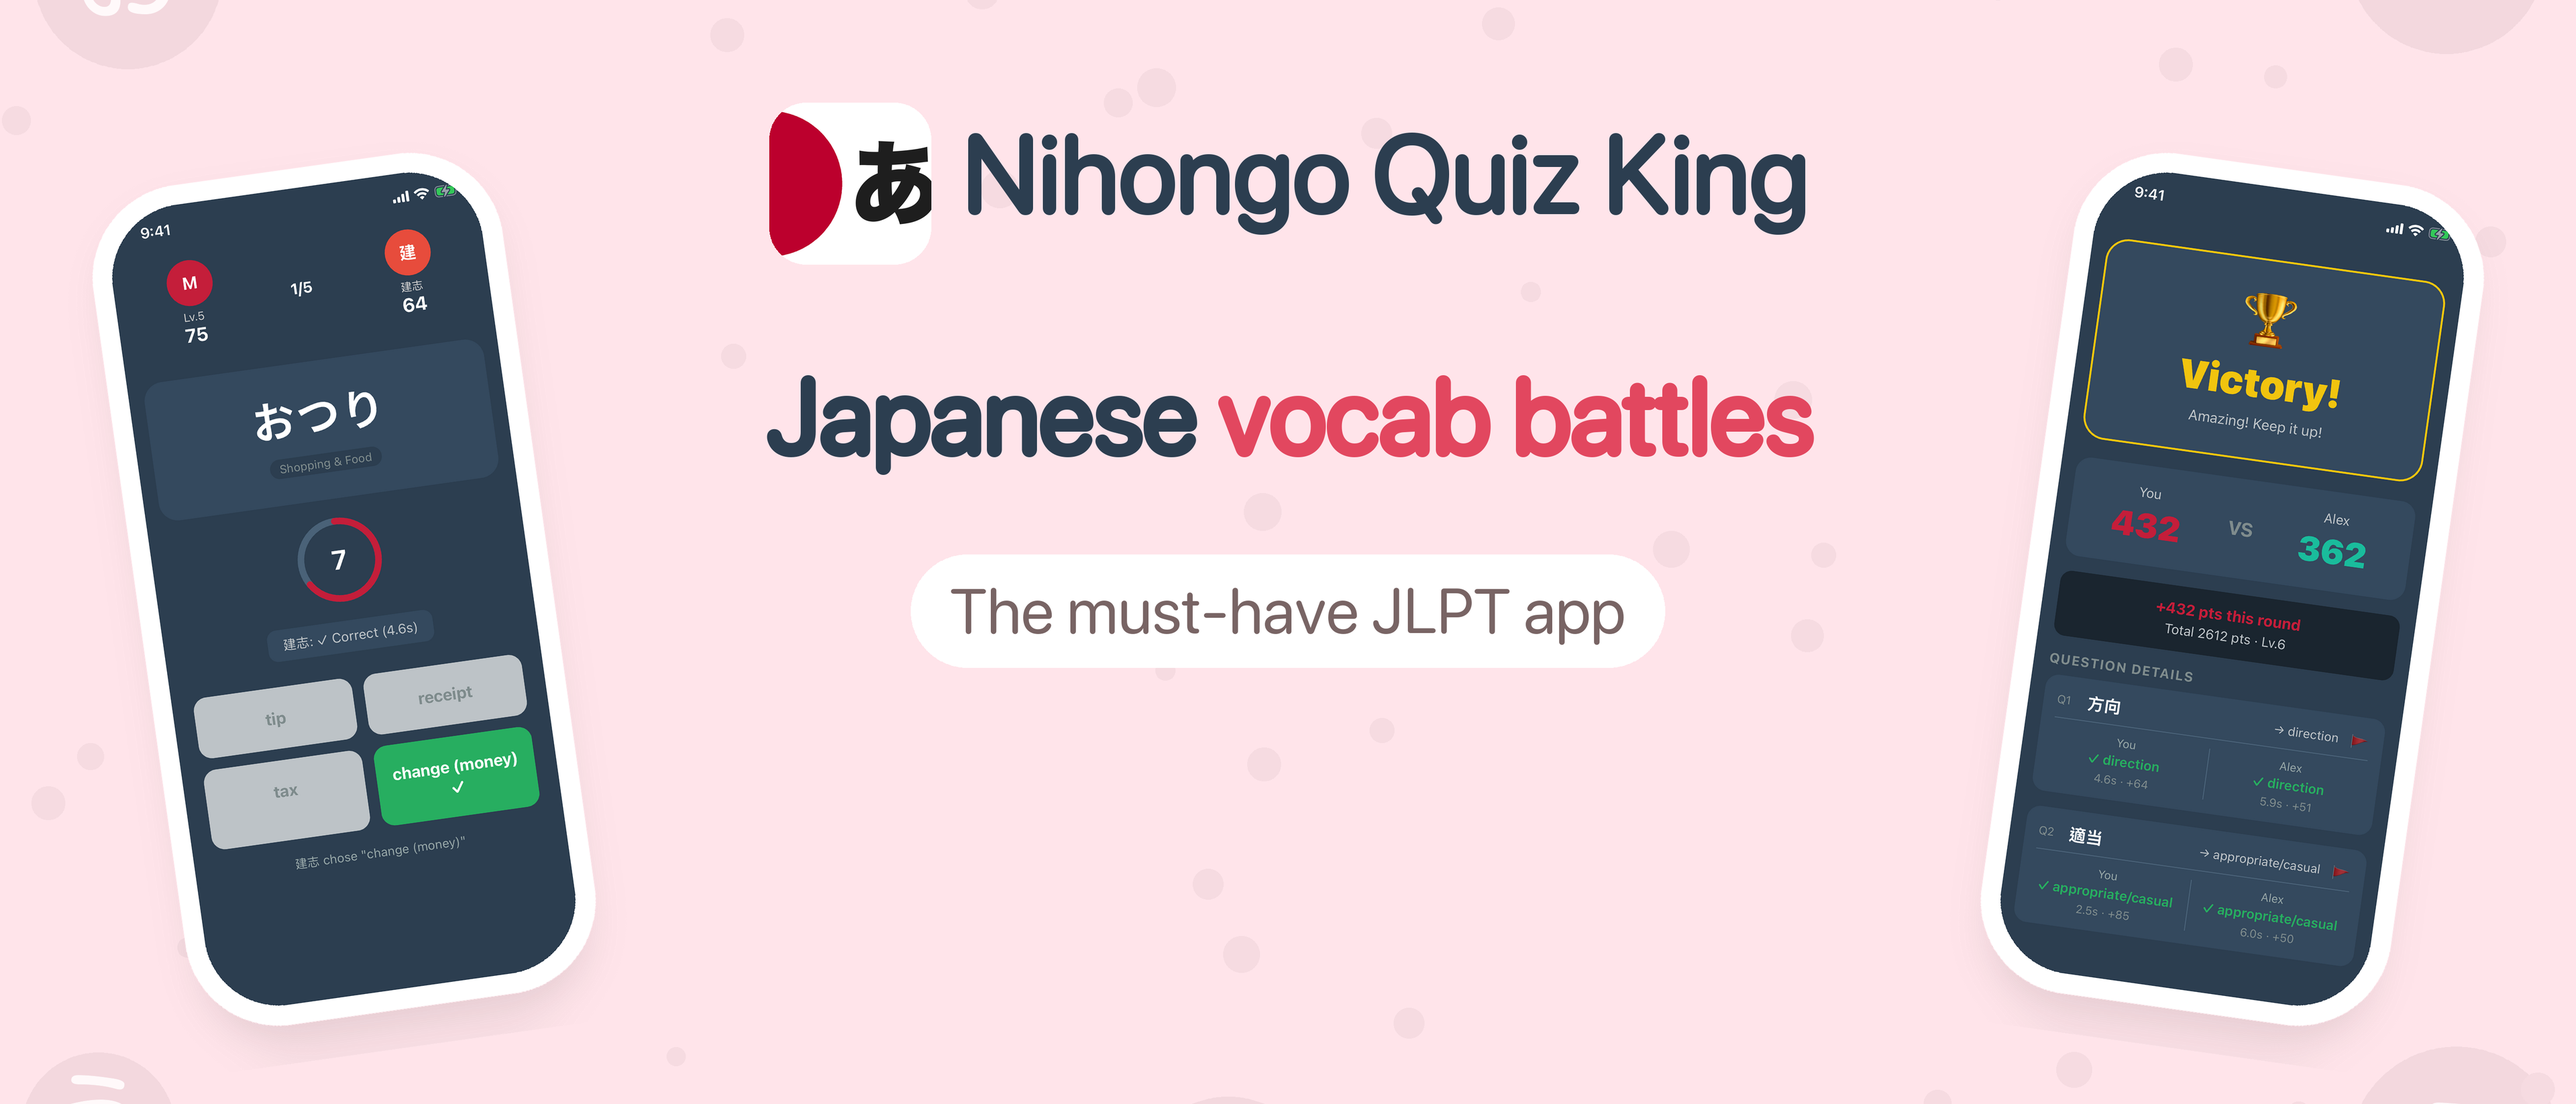
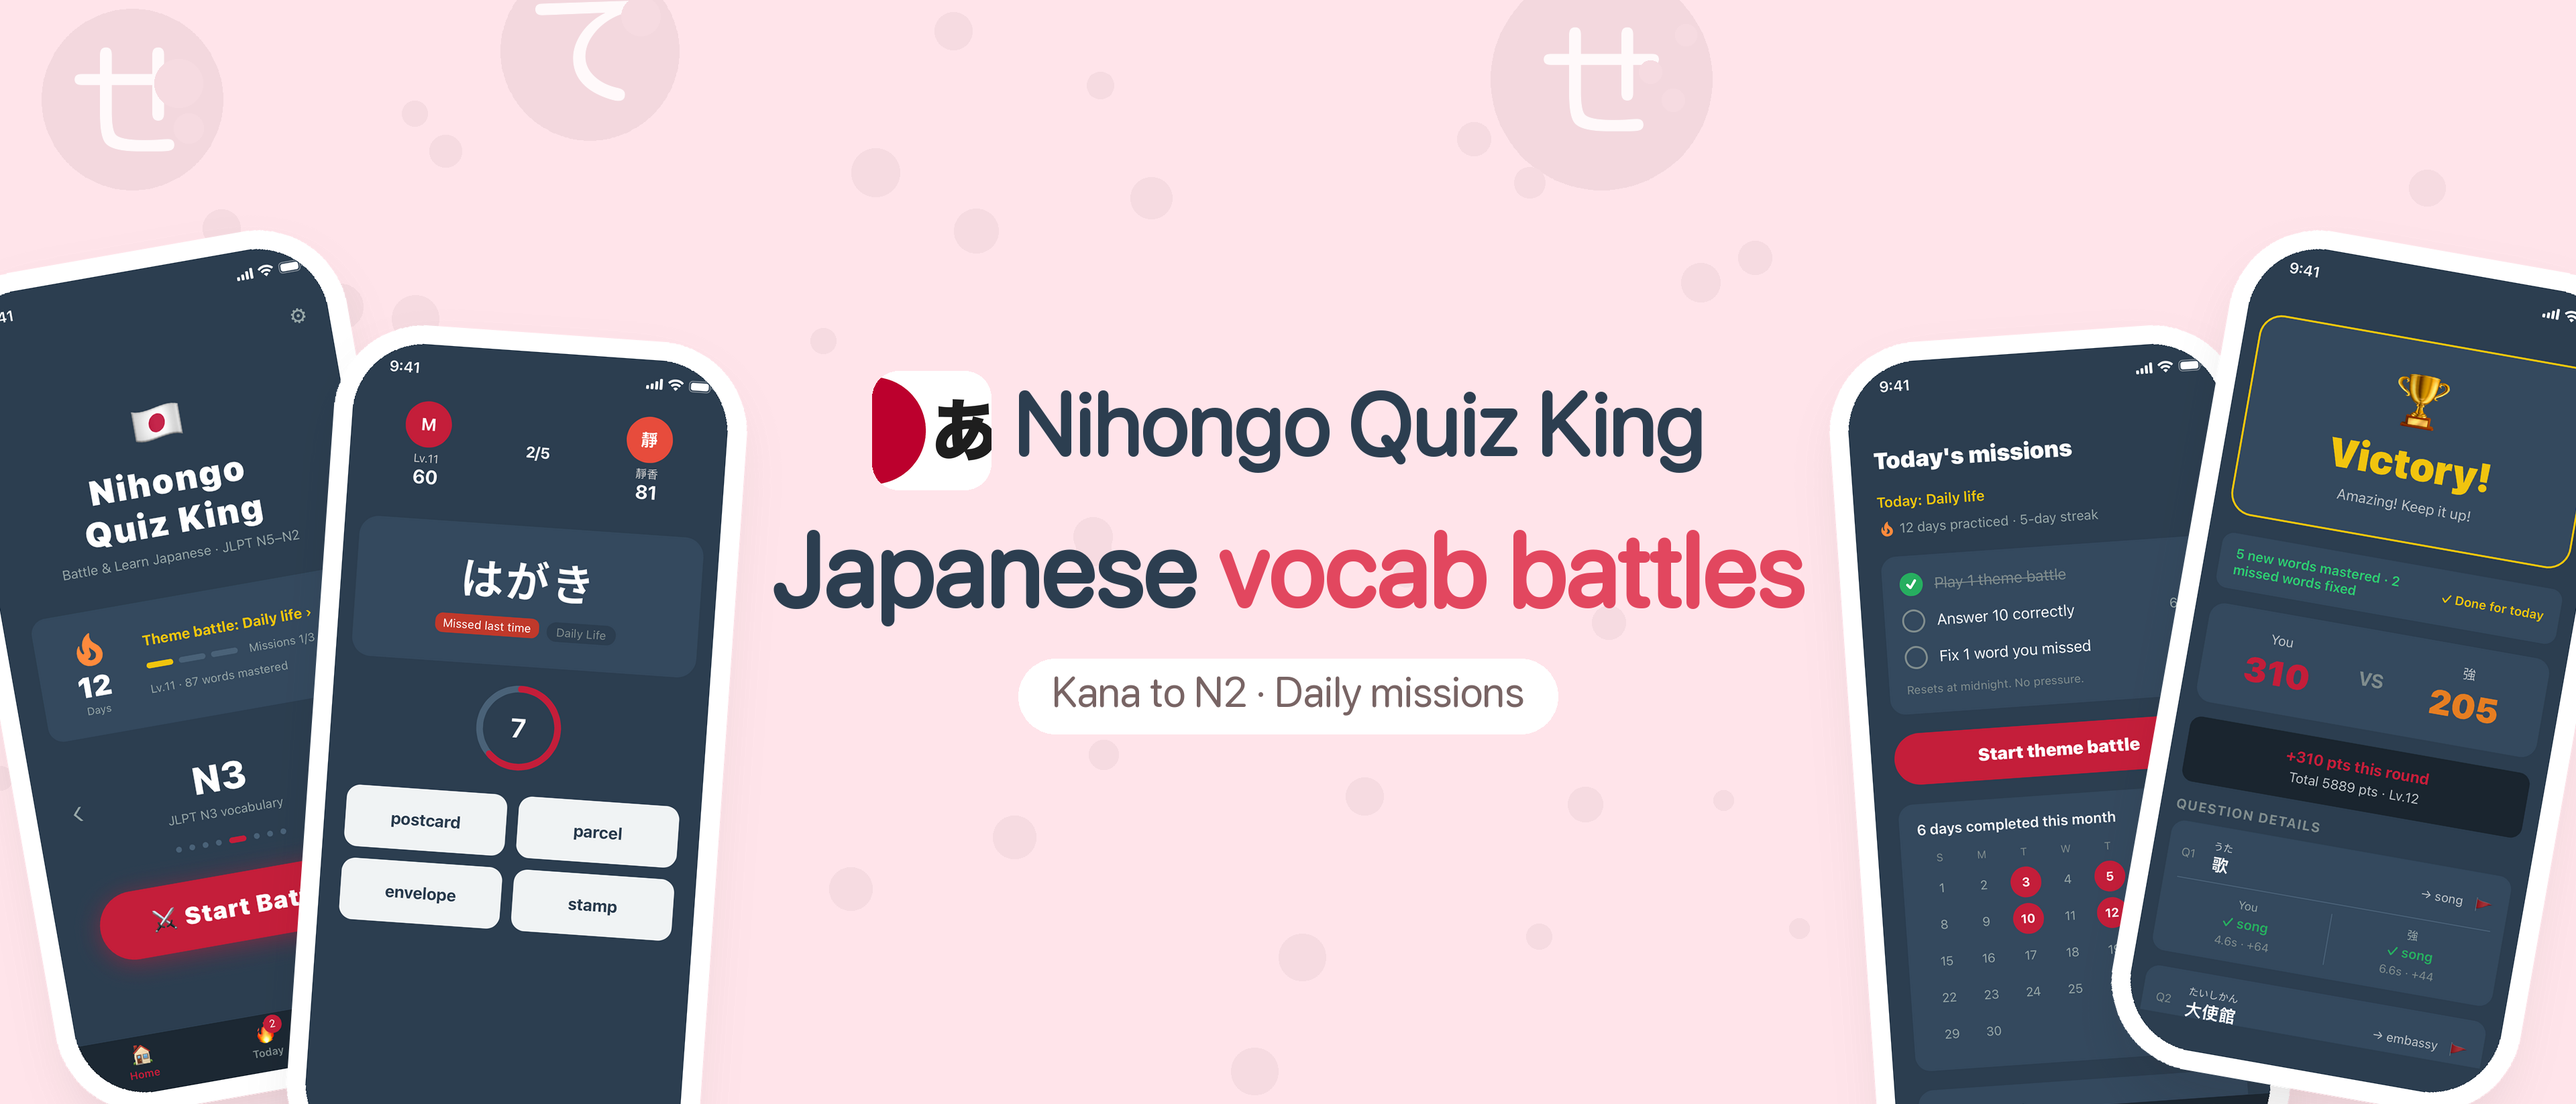
docs(appstore): redo creative assets inside Apple's art safe area
- Header 3840x1646, new search result 3840x2560, universal 5244x2950 (zh, en)
- Icon, name, headline and pill sit inside the official Art Safe Area;
  phones and kana bubbles are atmosphere that may be cropped
- Phones show the 1.8.0 screens (home, battle, Today, result)
- Drop the "JLPT 考試必選" claim (Apple: no unverifiable claims)

diff --git a/scripts/compose_appstore_header.py b/scripts/compose_appstore_header.py
@@ -1,18 +1,26 @@
-"""App Store creative asset (product page header + search results), pastel style.
+"""App Store creative assets (iOS 27+): product page header, search result, universal.
 
 Usage:
-  python3 scripts/compose_appstore_header.py <raw_dir> <out_dir> <zh_font.ttf>
+  python3 scripts/compose_appstore_header.py <raw_dir> <out_dir> <zh_font.ttf> [--guides]
 
-- raw_dir: en/ and zh/ with 1170x2532 simulator shots battle1 / correct / result .png
+- raw_dir: en/ and zh/ with 1170x2532 simulator shots home / today / missed / result .png
+  (missed = a battle question with the 上次答錯 tag)
 - zh_font: jf open 粉圓 (see compose_appstore_screenshots.py for the download link)
-- Writes <out_dir>/{zh,en}/header_universal_5244x2950.png and header_3840x1646.png
+- --guides draws the art safe area in green, for checking only (don't upload)
+- Writes <out_dir>/{zh,en}/header_3840x1646.png, search_3840x2560.png,
+  universal_5244x2950.png
 
-Safe area: the universal 16:9 asset is cropped to ~2.33:1 for the wide header
-(top and bottom ~12% cut) and ~3:2 for search results (left and right ~8% cut).
-On an iPhone (checked on an iPhone 17, 2026-10) the header shows only the middle
-~55% of the width, from the top down to ~63% of the height, with the back and
-share buttons over the top corners. So the text and icon stay in x 1500-3750,
-y 450-1850; the phones at the sides are decoration.
+Layout rule (Apple "creative assets specifications", 2026-11):
+everything that must be read (icon, name, headline, pill) sits inside the Art
+Safe Area; the phones and kana bubbles are atmosphere in the Auxiliary Art Area
+and can be cropped on any device.
+
+  asset            size         art safe area (w x h at x, y)
+  header 21:9      3840 x 1646  1646 x 661  at 1097, 493
+  search 3:2       3840 x 2560  2168 x 1030 at  836, 765
+  universal 16:9   5244 x 2950  1402 x 962  at 1921, 660   (PNG only)
+
+No alpha, no prices, no URLs, no unverifiable claims ("必選", "No.1"...).
 """
 import os
 import random
@@ -20,7 +28,7 @@ import sys
 from PIL import Image, ImageDraw, ImageFilter, ImageFont
 
 RAW, OUT, ZH_FONT = sys.argv[1], sys.argv[2], sys.argv[3]
-W, H = 5244, 2950
+GUIDES = '--guides' in sys.argv
 BG = (255, 228, 234)          # sakura pastel, same as screenshot 1
 NAVY = (44, 62, 80)
 RED = (226, 71, 95)
@@ -30,15 +38,38 @@ HERE = os.path.dirname(os.path.abspath(__file__))
 ICON = os.path.join(HERE, '..', 'assets', 'icon.png')
 
 TEXT = {
-    'zh': ('日文知識王', ['1 對 1 ', '日文單字對戰'], 'JLPT 考試必選 APP'),
-    'en': ('Nihongo Quiz King', ['Japanese ', 'vocab battles'], 'The must-have JLPT app'),
+    'zh': ('日文知識王', ['1 對 1 ', '單字對戰'], '五十音到 N2・每日任務'),
+    'en': ('Nihongo Quiz King', ['Japanese ', 'vocab battles'], 'Kana to N2 · Daily missions'),
 }
+
+# name, size, safe box (x, y, w, h), phones [(shot, centre x, centre y, width, angle)]
+ASSETS = [
+    ('header_3840x1646', (3840, 1646), (1097, 493, 1646, 661), [
+        ('home', 300, 1000, 560, 10), ('missed', 770, 1130, 560, -4),
+        ('today', 3070, 1130, 560, 4), ('result', 3540, 1000, 560, -10),
+    ]),
+    ('search_3840x2560', (3840, 2560), (836, 765, 2168, 1030), [
+        ('missed', 330, 1500, 640, 8), ('today', 3510, 1500, 640, -8),
+        ('home', 1300, 2560, 640, 6), ('result', 2540, 2560, 640, -6),
+    ]),
+    ('universal_5244x2950', (5244, 2950), (1921, 660, 1402, 962), [
+        ('home', 520, 1350, 700, 10), ('missed', 1300, 1520, 700, -4),
+        ('today', 3944, 1520, 700, 4), ('result', 4724, 1350, 700, -10),
+    ]),
+]
 
 
 def font(lang, size):
     if lang == 'zh':
         return ImageFont.truetype(ZH_FONT, size)
     return ImageFont.truetype('/System/Library/Fonts/SFNSRounded.ttf', size)
+
+
+def tsize(d, text, f):
+    # works on old Pillow (no textbbox): ink width/height and the top offset
+    w, h = d.textsize(text, font=f)
+    ox, oy = f.getoffset(text)
+    return w - ox, h - oy, oy
 
 
 def rrect(draw, box, r, fill):
@@ -49,21 +80,34 @@ def rrect(draw, box, r, fill):
         draw.pieslice([cx, cy, cx + 2 * r, cy + 2 * r], a, a + 90, fill=fill)
 
 
-def bubbles(canvas):
+def bubbles(canvas, safe):
+    W, H = canvas.size
+    sx, sy, sw, sh = safe
     rnd = random.Random(7)
     layer = Image.new('RGBA', canvas.size, (0, 0, 0, 0))
     d = ImageDraw.Draw(layer)
     tint = tuple(c - 28 for c in BG)
-    kf = ImageFont.truetype(ZH_FONT, 230)
-    for x, y in [(260, 300), (4980, 260), (200, 2650), (5000, 2700), (2500, 2780), (1900, 170), (3500, 2800)]:
-        r = rnd.randint(150, 220)
+    kf = ImageFont.truetype(ZH_FONT, 200)
+    spots = []
+    want = round(W * H / 1_400_000)
+    for _ in range(5000):
+        if len(spots) >= want:
+            break
+        x, y = rnd.randint(0, W), rnd.randint(0, H)
+        if sx - 250 < x < sx + sw + 250 and sy - 250 < y < sy + sh + 250:
+            continue          # keep the text area clean
+        if any((x - a) ** 2 + (y - b) ** 2 < 560 ** 2 for a, b in spots):
+            continue          # no overlapping bubbles
+        spots.append((x, y))
+    for x, y in spots:
+        r = rnd.randint(130, 190)
         d.ellipse([x - r, y - r, x + r, y + r], fill=tint + (110,))
         ch = rnd.choice(KANA)
-        tw, th = d.textsize(ch, font=kf)
-        d.text((x - tw / 2, y - th / 2 - 20), ch, font=kf, fill=(255, 255, 255, 200))
-    for _ in range(60):
+        w, h, top = tsize(d, ch, kf)
+        d.text((x - w / 2, y - h / 2 - top), ch, font=kf, fill=(255, 255, 255, 200))
+    for _ in range(70):
         x, y = rnd.randint(0, W), rnd.randint(0, H)
-        r = rnd.randint(16, 40)
+        r = rnd.randint(14, 36)
         d.ellipse([x - r, y - r, x + r, y + r], fill=tint + (80,))
     canvas.paste(layer, (0, 0), layer)
 
@@ -72,11 +116,12 @@ def phone(shot_path, width, angle):
     shot = Image.open(shot_path).convert('RGB')
     h = round(shot.height * width / shot.width)
     shot = shot.resize((width, h), Image.LANCZOS)
-    pad, bez, r = 120, 40, 150
+    pad, bez, r = 120, round(width * 0.05), round(width * 0.19)
     tile = Image.new('RGBA', (width + 2 * pad, h + 2 * pad), (0, 0, 0, 0))
     sh = Image.new('RGBA', tile.size, (0, 0, 0, 0))
     rrect(ImageDraw.Draw(sh), [pad - bez, pad - bez + 30, pad + width + bez, pad + h + bez + 60], r + bez, (120, 90, 90, 90))
-    tile.paste(sh.filter(ImageFilter.GaussianBlur(50)), (0, 0), sh.filter(ImageFilter.GaussianBlur(50)))
+    blur = sh.filter(ImageFilter.GaussianBlur(50))
+    tile.paste(blur, (0, 0), blur)
     rrect(ImageDraw.Draw(tile), [pad - bez, pad - bez, pad + width + bez, pad + h + bez], r + bez, (255, 255, 255, 255))
     mask = Image.new('L', (width, h), 0)
     rrect(ImageDraw.Draw(mask), [0, 0, width - 1, h - 1], r, 255)
@@ -84,55 +129,83 @@ def phone(shot_path, width, angle):
     return tile.rotate(angle, resample=Image.BICUBIC, expand=True)
 
 
-for lang, (name, head, sub) in TEXT.items():
-    canvas = Image.new('RGB', (W, H), BG)
-    bubbles(canvas)
+def text_block(canvas, lang, safe):
+    """Icon + name, headline, pill: stacked and centred inside the safe box."""
+    name, head, sub = TEXT[lang]
     d = ImageDraw.Draw(canvas)
+    sx, sy, sw, sh = safe
+    cx = sx + sw / 2
+    maxw = sw * 0.94
 
-    # centre block: icon + name, headline, subline. All of it stays inside
-    # x 1500-3750, y 450-1850, the part every crop shows (iPhone shows only the
-    # middle ~55% of the width, from the top; wide header and search crop more).
-    cx = W // 2
-    nsize = 230
-    while d.textsize(name, font=font(lang, nsize))[0] > 1750:
-        nsize -= 5
-    nf = font(lang, nsize)
-    nw, nh = d.textsize(name, font=nf)
-    isz = 330
+    # sizes as a share of the safe box height, shrunk until each row fits the width
+    isz = round(sh * 0.27)
+    nsize = round(sh * 0.20)
+    while True:
+        nf = font(lang, nsize)
+        nw, nh, ntop = tsize(d, name, nf)
+        if isz + isz * 0.18 + nw <= maxw:
+            break
+        nsize -= 4
+        isz = round(nsize * 1.35)
+    hsize = round(sh * 0.24)
+    while True:
+        hf = font(lang, hsize)
+        parts = [tsize(d, p, hf) for p in head]
+        hw = sum(p[0] for p in parts)
+        if hw <= maxw:
+            break
+        hsize -= 4
+    hh = max(p[1] for p in parts)
+    htop = min(p[2] for p in parts)
+    ssize = round(sh * 0.095)
+    while True:
+        sf = font(lang, ssize)
+        sw_, sh_, stop = tsize(d, sub, sf)
+        if sw_ + ssize * 1.6 <= maxw:
+            break
+        ssize -= 2
+    pill_h = round(sh_ * 1.9)
+
+    gap1, gap2 = sh * 0.09, sh * 0.08
+    total = isz + gap1 + hh + gap2 + pill_h
+    y = sy + (sh - total) / 2
+
+    # row 1: icon + name
     icon = Image.open(ICON).convert('RGBA').resize((isz, isz), Image.LANCZOS)
     m = Image.new('L', icon.size, 0)
-    rrect(ImageDraw.Draw(m), [0, 0, isz - 1, isz - 1], 75, 255)
-    gx = cx - (isz + 60 + nw) // 2
-    canvas.paste(icon, (gx, 560), m)
-    d.text((gx + isz + 60, 560 + isz / 2 - nh * 0.62), name, font=nf, fill=NAVY, stroke_width=4, stroke_fill=NAVY)
+    rrect(ImageDraw.Draw(m), [0, 0, isz - 1, isz - 1], round(isz * 0.225), 255)
+    gap = isz * 0.18
+    gx = cx - (isz + gap + nw) / 2
+    canvas.paste(icon, (round(gx), round(y)), m)
+    d.text((gx + isz + gap, y + isz / 2 - nh / 2 - ntop), name, font=nf, fill=NAVY,
+           stroke_width=max(2, nsize // 60), stroke_fill=NAVY)
+    y += isz + gap1
 
-    size = 240
-    while True:
-        hf = font(lang, size)
-        widths = [d.textsize(p, font=hf)[0] for p in head]
-        if sum(widths) <= 2150 or size <= 120:
-            break
-        size -= 5
-    x = cx - sum(widths) / 2
-    for part, w_, col in zip(head, widths, (NAVY, RED)):
-        d.text((x, 1060), part, font=hf, fill=col, stroke_width=6, stroke_fill=col)
-        x += w_
-    sf = font(lang, 130)
-    sw = d.textsize(sub, font=sf)[0]
-    rrect(d, [cx - sw / 2 - 80, 1480, cx + sw / 2 + 80, 1710], 115, (255, 255, 255))
-    d.text((cx - sw / 2, 1515), sub, font=sf, fill=SUBTXT)
+    # row 2: headline, navy + red
+    x = cx - hw / 2
+    for part, (pw, _, _), col in zip(head, parts, (NAVY, RED)):
+        d.text((x, y - htop), part, font=hf, fill=col, stroke_width=max(3, hsize // 40), stroke_fill=col)
+        x += pw
+    y += hh + gap2
 
-    # phones on both sides: decoration only, fine if a crop cuts them
-    shots = {n: os.path.join(RAW, lang, f'{n}.png') for n in ('battle1', 'correct', 'result')}
-    for path, px, py, ang, wd in [(shots['correct'], 700, 1550, 8, 760), (shots['result'], 4544, 1550, -8, 760)]:
-        t = phone(path, wd, ang)
-        canvas.paste(t, (px - t.width // 2, py - t.height // 2), t)
+    # row 3: white pill
+    pw = sw_ + ssize * 1.6
+    rrect(d, [round(cx - pw / 2), round(y), round(cx + pw / 2), round(y + pill_h)], pill_h // 2, (255, 255, 255))
+    d.text((cx - sw_ / 2, y + (pill_h - sh_) / 2 - stop), sub, font=sf, fill=SUBTXT)
 
-    out = os.path.join(OUT, lang)
-    os.makedirs(out, exist_ok=True)
-    canvas.save(os.path.join(out, 'header_universal_5244x2950.png'))
-    # header-only version: crop to 3840x1646's aspect from the centre, then resize
-    ch = round(W * 1646 / 3840)
-    top = (H - ch) // 2
-    canvas.crop((0, top, W, top + ch)).resize((3840, 1646), Image.LANCZOS).save(os.path.join(out, 'header_3840x1646.png'))
+
+for lang in TEXT:
+    for name, (W, H), safe, phones in ASSETS:
+        canvas = Image.new('RGB', (W, H), BG)
+        bubbles(canvas, safe)
+        for shot, px, py, wd, ang in phones:
+            t = phone(os.path.join(RAW, lang, f'{shot}.png'), wd, ang)
+            canvas.paste(t, (px - t.width // 2, py - t.height // 2), t)
+        text_block(canvas, lang, safe)
+        if GUIDES:
+            sx, sy, sw, sh = safe
+            ImageDraw.Draw(canvas).rectangle([sx, sy, sx + sw, sy + sh], outline=(0, 170, 0), width=8)
+        out = os.path.join(OUT, lang)
+        os.makedirs(out, exist_ok=True)
+        canvas.save(os.path.join(out, f'{name}.png'))
     print(lang, 'done')
